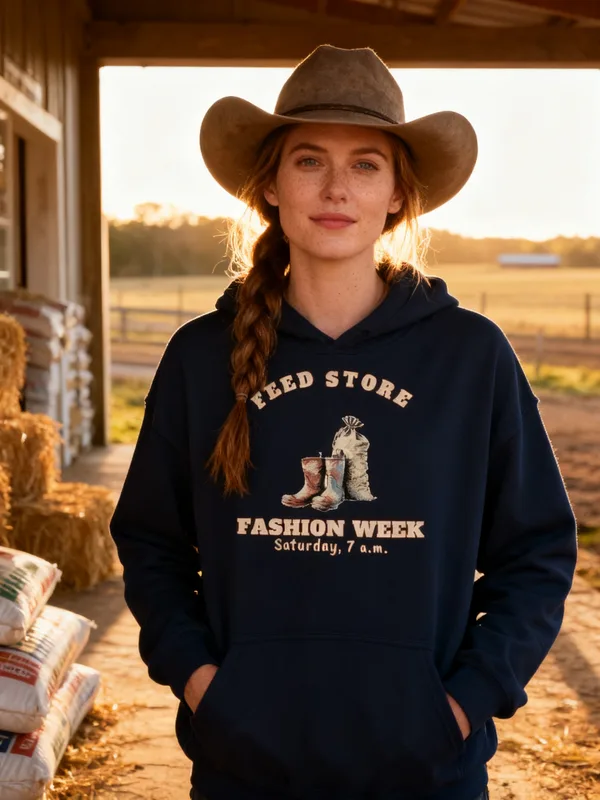
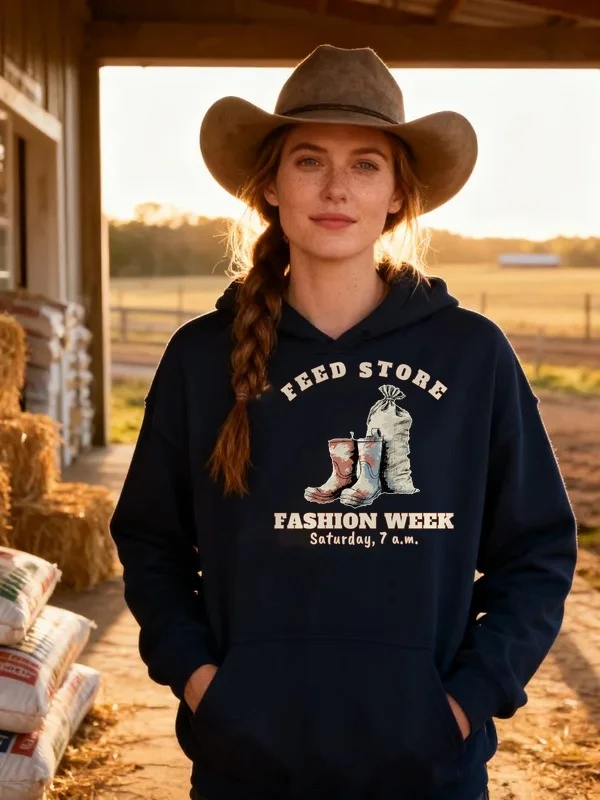
[A] review 474 Feed Store Fashion Week hoodie REDO (bigger illustration, composite cover)

Changed region(s): [[0.39, 0.4375, 0.75, 0.7188]]

diff --git a/docs/intake-log.md b/docs/intake-log.md
@@ -1,9 +1,10 @@
+RUNNING lane A since 2026-10-17 23:00 UTC
+RUNNING lane B since 2026-10-17 22:59 UTC
 2026-10-17 23:02 UTC — [C] Run summary: 4 REDOs to REVIEW with no fal spend: #493 (black bar erased, re-linked 12/12, new mockups), #281 (print composited on cover, copy fixes), #415 (print composited, meta unisex), #487 (print composited on both people). Still REDO and blocked by the fal cap ($15.76 of $16 used): #364 #450 #468 (hoodie covers; #364 also needs a Navy back mockup), #442 (new art), #439 (racket art cleanup), #398/#502 parked at cover, #501 #503-#510 READY unbuilt (need art). Resume after 00:00 UTC. Lock released.
 2026-10-17 23:01 UTC — [C] REVIEW #487 (REDO: composite cover both people).
 2026-10-17 23:01 UTC — [C] REVIEW #415 (REDO: composite cover, meta fixed).
 2026-10-17 23:00 UTC — [C] REVIEW #281 (REDO: composite cover, copy fixes).
-RUNNING lane A since 2026-10-17 23:00 UTC
-RUNNING lane B since 2026-10-17 22:59 UTC
+2026-10-17 23:10 UTC — [A] REVIEW #474 Feed Store Fashion Week hoodie REDO (print illustration 72% of width at FW 1500, new mockups, composite cover, braid clear of F; no fal spend).
 2026-10-17 22:51 UTC — [D] Director run: inbox 1 (turkey hoodie collision → Pilgrim hoodie now 'pilgrim turkey' 480/KD30). Reviewed 48 REVIEW sheets: 34 LIVE (all ACTIVE + Online Store/Headless/Google, audit PASS 0 warn, all 34 pages 200), 16 REDO with rule-numbered notes. Recurring: cover hair over the first letter (6) and hoodie covers without a hood (4) → R6.9 composite-first line + builder card 9b (no known cover defect goes to REVIEW). live-rebuild.yml now queues instead of cancelling (the 8-min wait never finished under 4 busy lanes; nightly-rebuild run by hand once). 9 new briefs #503-#511 (golf hoodies + crew, national park hoodies); READY: A 22, B 12, C 12, E 12. #256 #445 #459 to reference/best. Telegram sent. Lock released.
 2026-10-17 22:46 UTC — [H] Helper run: Telegram inbox empty (getUpdates returned nothing, nothing to consume; no pause or resume). Audit (422 live products): 1 ERROR, a keyword collision on 'turkey hoodie' (now the Long Beard camo hoodie and the Laying Low turkey hoodie; sent to docs/inbox.md for the director, creative call). 26 warnings left alone (polish). Price ERRORs: 0, so the announcement bar is unchanged (holiday line already live). Category check (one-time rule, still checking): 0 products without a category. Site freshness: womens-christmas-seasonally-overbooked-crewneck-sweatshirt, mens-grill-wizard-zip-hoodie, womens-christmas-o-holy-night-crewneck-sweatshirt all 200. Stuck check: none (lanes A, B, C and E all committed in the last hour; director lock 22:12 UTC). Daily summary already sent today (12:43), not due. Lock released.
 2026-10-17 22:49 UTC — [D] LIVE 7 more: #245 Nana's Cookies tee, #252 Turkey Is Fine crew, #255 Technically a Vegetable tee, #257/#258 Wishbone Champion tee + crew, #367 Not Stopping. Hold It. hoodie, #417 Apex Napper. #474 REDO. Run total: 34 LIVE, 16 sent back.

diff --git a/docs/pipeline/474-western-hoodie-feed-store-fashion-week.md b/docs/pipeline/474-western-hoodie-feed-store-fashion-week.md
@@ -1,4 +1,4 @@
-status: REDO
+status: REVIEW
 lane: A
 type: new
 id: 474
@@ -34,3 +34,4 @@ kd: 32
 - 2026-10-17 22:44 UTC director: REDO.
   1. R6.9 / builder 9b (hair): her braid lies across the F of FEED STORE on the cover. Composite the exact print from the Navy mockup onto the cover's chest with the braid layered behind the shoulder, then read FEED STORE / FASHION WEEK / Saturday, 7 a.m. letter by letter. No new fal call.
   2. R5.3.2 (fill the print): the boots and feed sack are about a third of the print's width, with empty space around them, so the picture reads small next to the lettering. In print-prep, scale the illustration up to at least 60% of the print width (between the arch and FASHION WEEK) at FW 1500+, re-upload, re-link and regenerate the mockups, then composite that new print onto the cover.
+- 2026-10-17 23:10 UTC builder [A]: REDO done, no fal call. (1) Print: illustration (boots + sack) rescaled 1.26x to 72% of the print width (was 57%), nested into the arch hollow, lettering untouched, same 3000x3126 canvas at FW 1500 (Printful file 1088553233, 12/12 variants re-linked, back logo kept). (2) New mockups for Sand and Navy (front, left, right, back) replaced the old 8 on the DRAFT, variants re-linked to the new fronts; phone-size read of Navy: FEED STORE / FASHION WEEK / Saturday, 7 a.m. all legible. (3) Cover: the new print composited onto the same photo (R6.9), old print inpainted, print nudged right and narrower so the braid hangs clear of the F; braid, hood, hands unchanged; read letter by letter, nothing overlaps. design-crops regenerated. Copy unchanged (art content same).
